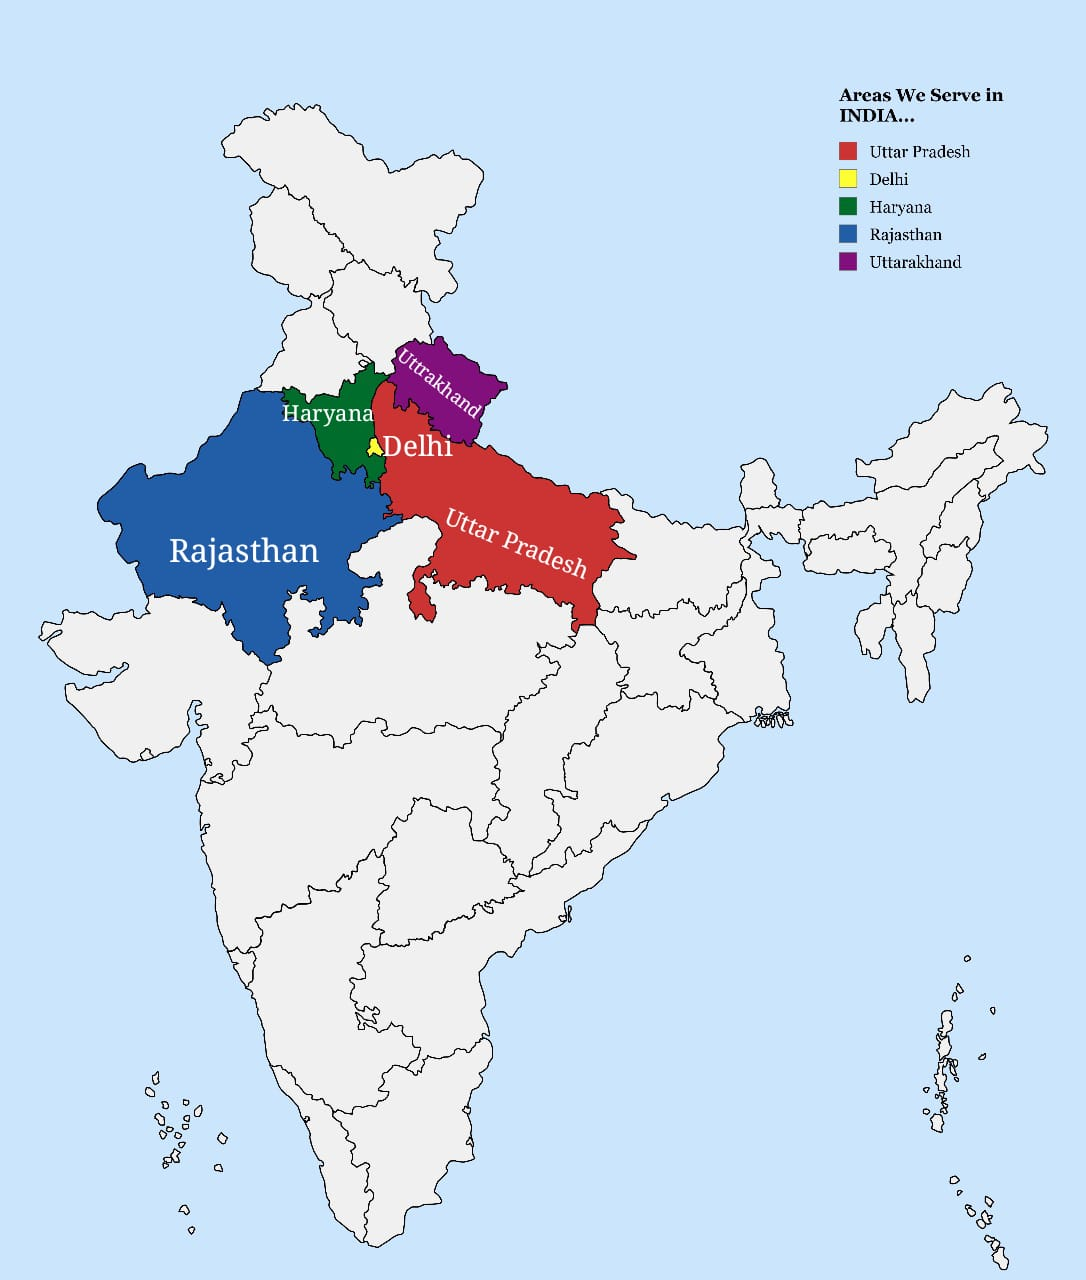
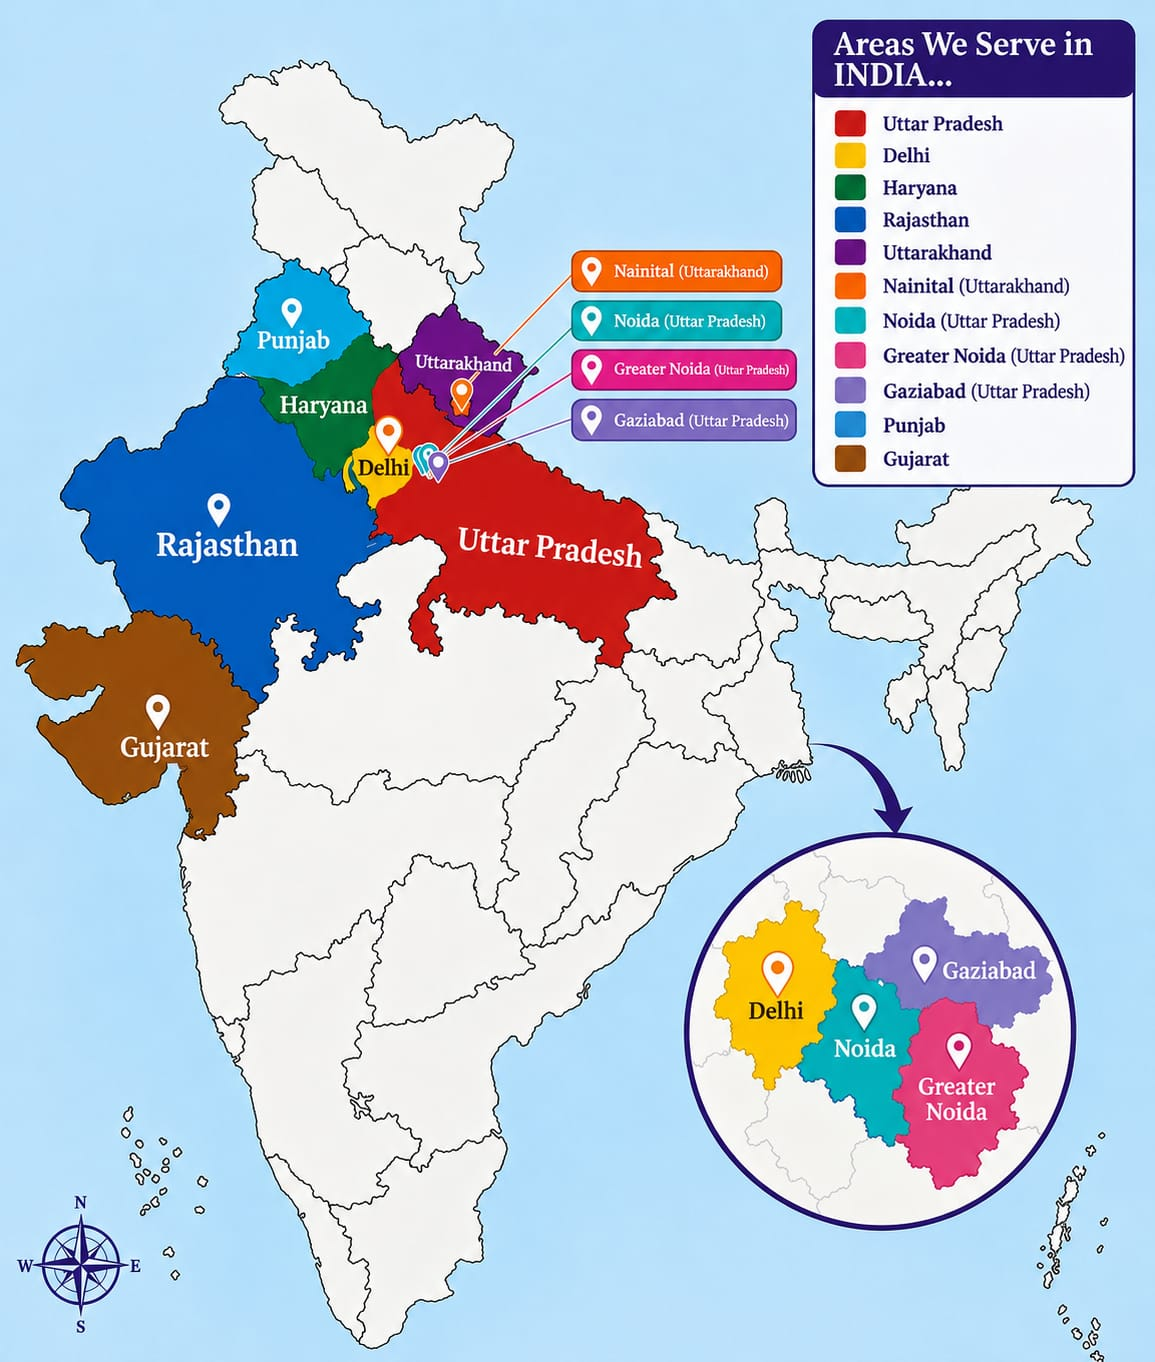
Added pop up and india map added

diff --git a/style.css b/style.css
@@ -4404,3 +4404,189 @@ button {
     font-size: 24px;
   }
 }
+
+/* ============================================================
+   POPUP NOTIFICATION (LETTER TO SOLDIER) - PORTRAIT FRIENDLY
+   ============================================================ */
+.popup-notification {
+  position: fixed;
+  bottom: 40px;
+  left: 40px;
+  width: 720px; /* Wider to accommodate portrait image */
+  max-width: calc(100vw - 80px);
+  background: #ffffff;
+  border-radius: 28px;
+  border: 1px solid rgba(230, 126, 34, 0.12);
+  box-shadow: 
+    0 40px 80px rgba(0, 0, 0, 0.25),
+    0 10px 30px rgba(230, 126, 34, 0.1);
+  z-index: 9998;
+  overflow: hidden;
+  
+  /* Hidden by default */
+  opacity: 0;
+  transform: translateY(100px) scale(0.9);
+  pointer-events: none;
+  transition: opacity 0.7s cubic-bezier(0.2, 0.9, 0.4, 1.2), 
+              transform 0.7s cubic-bezier(0.2, 0.9, 0.4, 1.2), 
+              pointer-events 0.7s;
+}
+
+/* Active State */
+.popup-notification.active {
+  opacity: 1;
+  transform: translateY(0) scale(1);
+  pointer-events: auto;
+}
+
+/* Gold Accent Line on Top */
+.popup-notification::after {
+  content: "";
+  position: absolute;
+  top: 0;
+  left: 0;
+  right: 0;
+  height: 5px;
+  background: linear-gradient(90deg, #f39c12, #e67e22, #d35400);
+  z-index: 5;
+}
+
+/* Layout: Large Image Left, Text Right */
+.popup-body {
+  display: flex;
+  align-items: stretch;
+  gap: 0;
+}
+
+/* Image Section - No Cropping */
+.popup-image-wrapper {
+  flex: 0 0 55%; /* Image takes up 55% width */
+  position: relative;
+  min-height: 500px; /* Height to fit portrait image */
+  background: linear-gradient(145deg, #fffaf0 0%, #f8f4ee 100%); /* Premium warm background */
+  display: flex;
+  align-items: center;
+  justify-content: center;
+  padding: 15px;
+}
+
+.popup-image-wrapper img {
+  max-width: 100%;
+  max-height: 100%;
+  width: auto;
+  height: auto;
+  object-fit: contain; /* Ensures the ENTIRE image is always visible */
+  border-radius: 12px;
+  box-shadow: 0 10px 30px rgba(0, 0, 0, 0.15);
+  transition: transform 5s ease;
+}
+
+.popup-notification.active .popup-image-wrapper img {
+  transform: scale(1.02); /* Very subtle zoom */
+}
+
+/* Close Button */
+.popup-close {
+  position: absolute;
+  top: 14px;
+  right: 14px;
+  width: 34px;
+  height: 34px;
+  background: rgba(255, 255, 255, 0.9);
+  border: 1px solid rgba(0, 0, 0, 0.05);
+  border-radius: 50%;
+  color: #333;
+  font-size: 1.3rem;
+  cursor: pointer;
+  z-index: 10;
+  transition: all 0.3s ease;
+  display: flex;
+  align-items: center;
+  justify-content: center;
+  box-shadow: 0 4px 12px rgba(0, 0, 0, 0.1);
+}
+
+.popup-close:hover {
+  background: #e67e22;
+  color: white;
+  transform: rotate(90deg) scale(1.1);
+}
+
+/* Content Area */
+.popup-content {
+  flex: 1;
+  padding: 40px 30px;
+  display: flex;
+  flex-direction: column;
+  justify-content: center;
+  background: #ffffff;
+}
+
+.popup-content h4 {
+  font-family: "Playfair Display", serif;
+  font-size: 1.8rem;
+  font-weight: 800;
+  color: #c0392b;
+  margin-bottom: 16px;
+  line-height: 1.2;
+  letter-spacing: -0.5px;
+  position: relative;
+}
+
+/* Hand-drawn underline effect */
+.popup-content h4::after {
+  content: "";
+  position: absolute;
+  bottom: -6px;
+  left: 0;
+  width: 50px;
+  height: 3px;
+  background: linear-gradient(90deg, #e67e22, #f39c12);
+  border-radius: 2px;
+}
+
+.popup-content p {
+  font-size: 1rem;
+  color: #5a4a3a;
+  line-height: 1.8;
+  margin: 0;
+}
+
+.highlight-orange {
+  color: #e67e22;
+  font-weight: 800;
+  font-size: 1.1rem;
+}
+
+/* Responsive adjustments */
+@media (max-width: 768px) {
+  .popup-notification {
+    width: calc(100vw - 30px);
+    bottom: 15px;
+    left: 15px;
+    border-radius: 20px;
+  }
+
+  .popup-body {
+    flex-direction: column;
+  }
+
+  .popup-image-wrapper {
+    flex: none;
+    width: 100%;
+    min-height: 300px;
+    padding: 10px;
+  }
+
+  .popup-content {
+    padding: 25px;
+  }
+
+  .popup-content h4 {
+    font-size: 1.4rem;
+  }
+
+  .popup-content p {
+    font-size: 0.88rem;
+  }
+}

diff --git a/index.html b/index.html
@@ -1342,6 +1342,29 @@
       </div>
     </footer>
 
+        <!-- ==================== POPUP NOTIFICATION (LETTER TO SOLDIER) ==================== -->
+    <div class="popup-notification" id="soldierPopup">
+      <button class="popup-close" onclick="permanentlyCloseSoldierPopup()">×</button>
+      
+      <div class="popup-body">
+        <!-- Large Image on Left -->
+        <div class="popup-image-wrapper">
+          <img src="assets/LetterToSoldier.jpg" alt="Letter to Soldier Initiative" />
+        </div>
+
+        <!-- Elegant Content on Right -->
+        <div class="popup-content">
+          <h4>400+ Rakhis, One Thread of Love!</h4>
+          <br>
+          <p>
+            Through our <strong class="highlight-orange">Letter to Soldier</strong> Initiative, hearts came together to honour our soldiers with love, gratitude and hope, from across India.
+            <br><br>
+            Together, we’re sending a thread of love to our real-life heroes.
+          </p>
+        </div>
+      </div>
+    </div>
+
     <!-- ==================== SCRIPTS ==================== -->
     <script src="https://cdn.jsdelivr.net/npm/bootstrap@5.3.2/dist/js/bootstrap.bundle.min.js"></script>
     <script>
@@ -1438,6 +1461,71 @@
           }
         });
       });
+    
+    // ============================================================
+    // POPUP NOTIFICATION (LETTER TO SOLDIER) - PERMANENT CLOSE FIX
+    // ============================================================
+    const soldierPopup = document.getElementById('soldierPopup');
+    let popupTimers = [];
+    let hasBeenClosed = false; // <--- New flag to prevent re-opening
+
+    function showSoldierPopup() {
+      // If user manually closed it, stop showing it forever
+      if (hasBeenClosed) return;
+
+      // Clear any existing timers
+      popupTimers.forEach(timer => clearTimeout(timer));
+      popupTimers = [];
+
+      // Add active class to show
+      soldierPopup.classList.add('active');
+
+      // Auto-hide after 10 seconds if the user stays at the top
+      let hideTimer = setTimeout(() => {
+        closeSoldierPopup();
+      }, 10000);
+      popupTimers.push(hideTimer);
+    }
+
+    function closeSoldierPopup() {
+      soldierPopup.classList.remove('active');
+      // Clear any pending timers
+      popupTimers.forEach(timer => clearTimeout(timer));
+      popupTimers = [];
+    }
+
+    // New Function: This runs ONLY when the user clicks the Cross (X)
+    function permanentlyCloseSoldierPopup() {
+      hasBeenClosed = true; // Set flag so it NEVER pops again
+      closeSoldierPopup();
+    }
+
+    function checkHeroSectionAndShowPopup() {
+      // If user manually closed it, stop checking
+      if (hasBeenClosed) return;
+
+      // If page is scrolled within the top 120px (Hero section)
+      if (window.scrollY < 120) {
+        // Only trigger if not already visible
+        if (!soldierPopup.classList.contains('active')) {
+          showSoldierPopup();
+        }
+      } else {
+        // If user scrolls away, immediately hide it
+        closeSoldierPopup();
+      }
+    }
+
+    // Trigger check after 3 seconds initially
+    setTimeout(() => {
+      checkHeroSectionAndShowPopup();
+    }, 3000);
+
+    // Re-check every 500ms to catch when the user scrolls back to top
+    setInterval(() => {
+      checkHeroSectionAndShowPopup();
+    }, 500);
+
     </script>
     <!-- ==================== WHATSAPP FLOATING BUTTON ==================== -->
     <a
